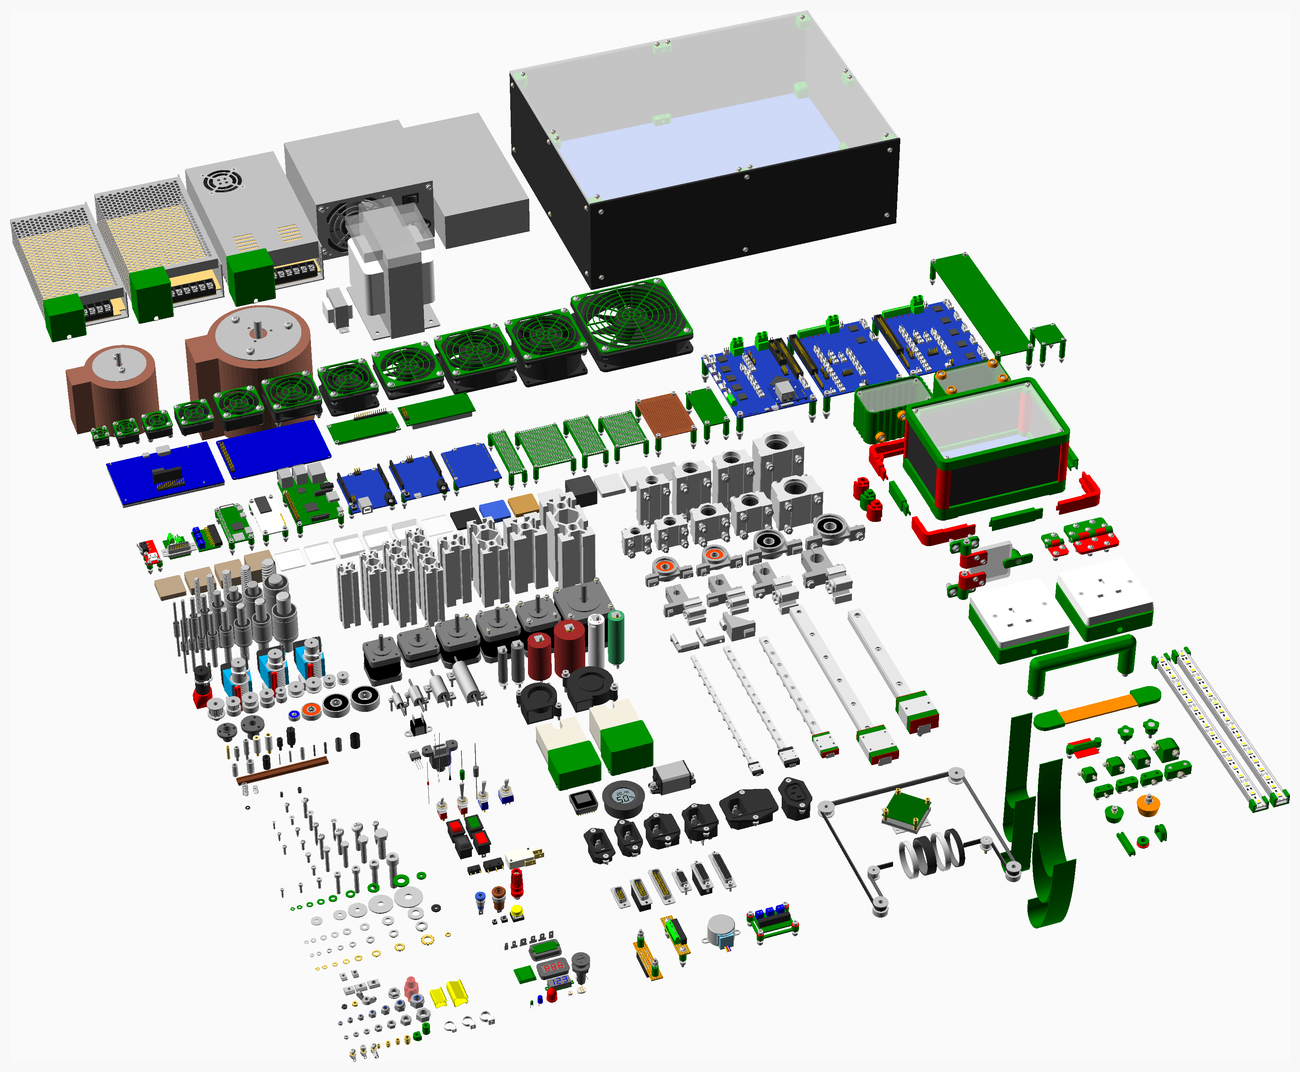
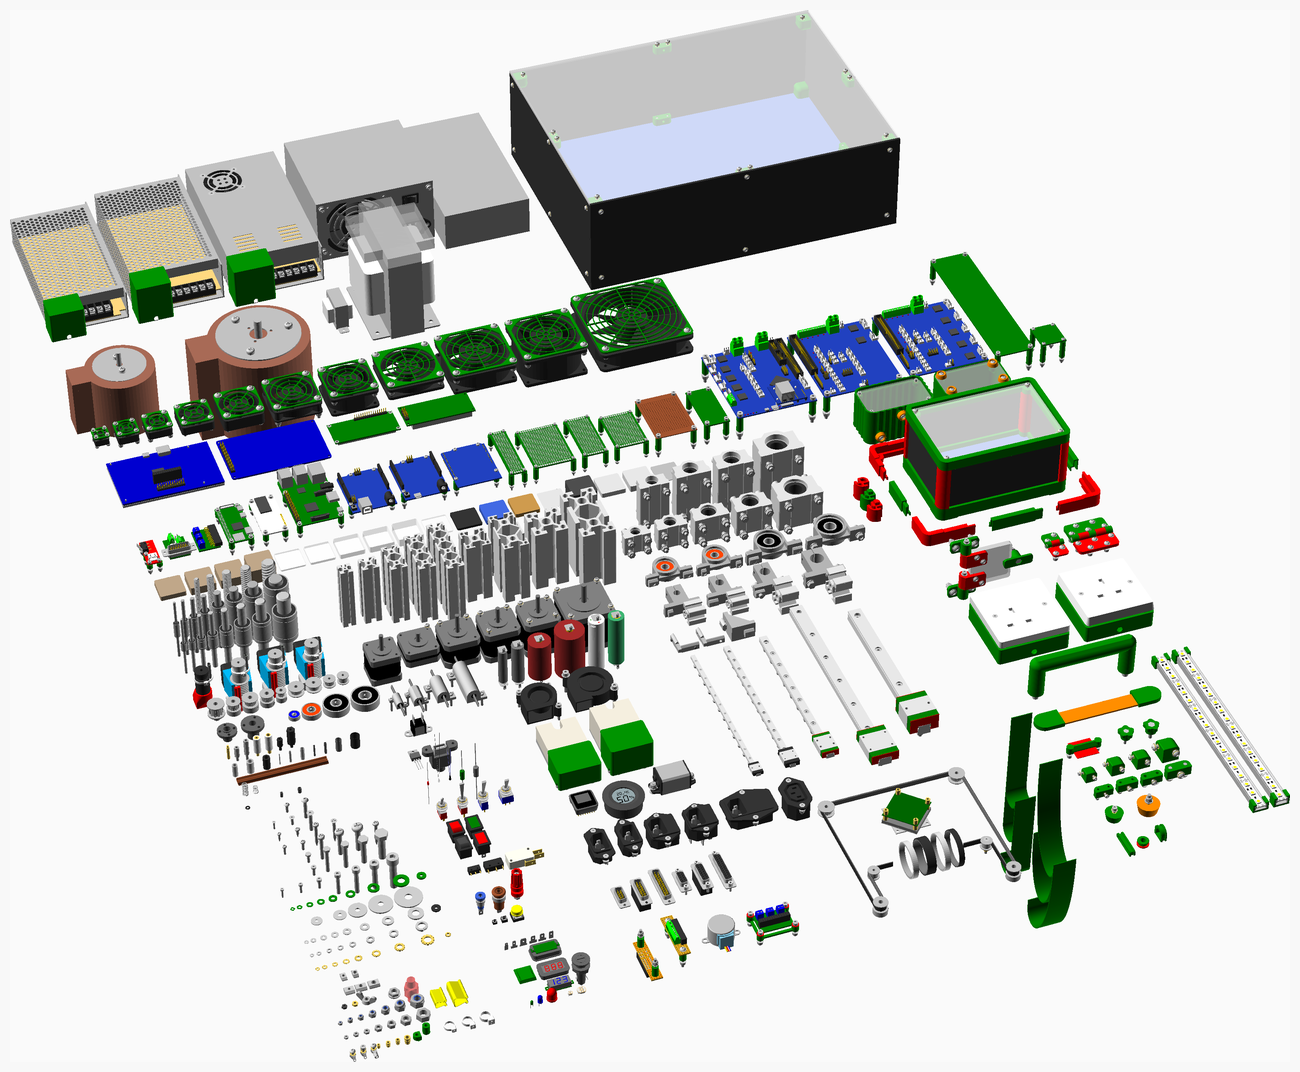
Updated readme and images

Changed region(s): [[0.2462, 0.4618, 0.4923, 0.5849]]

diff --git a/readme.md b/readme.md
@@ -676,14 +676,15 @@ Aluminium  extrusion.
 ### Vitamins
 | Qty | Module call | BOM entry |
 | ---:|:--- |:---|
+|   1 | ```extrusion(E1515, 80)``` |  Extrusion E1515 x 80mm |
 |   1 | ```extrusion(E2020, 80)``` |  Extrusion E2020 x 80mm |
 |   1 | ```extrusion(E2040, 80)``` |  Extrusion E2040 x 80mm |
 |   1 | ```extrusion(E2060, 80)``` |  Extrusion E2060 x 80mm |
 |   1 | ```extrusion(E2080, 80)``` |  Extrusion E2080 x 80mm |
-|   1 | ```extrusion(E3030, 80)``` |  Extrusion E3030 x 80mm |
-|   1 | ```extrusion(E3060, 80)``` |  Extrusion E3060 x 80mm |
-|   1 | ```extrusion(E4040, 80)``` |  Extrusion E4040 x 80mm |
-|   1 | ```extrusion(E4080, 80)``` |  Extrusion E4080 x 80mm |
+|   1 | ```extrusion(E3030, 80, cornerHole = true)``` |  Extrusion E3030 x 80mm |
+|   1 | ```extrusion(E3060, 80, cornerHole = true)``` |  Extrusion E3060 x 80mm |
+|   1 | ```extrusion(E4040, 80, cornerHole = true)``` |  Extrusion E4040 x 80mm |
+|   1 | ```extrusion(E4080, 80, cornerHole = true)``` |  Extrusion E4080 x 80mm |
 
 
 <a href="#top">Top</a>
